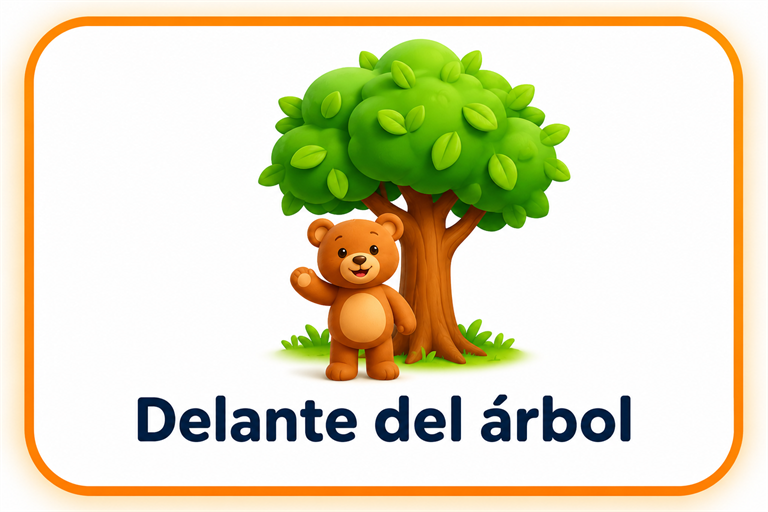
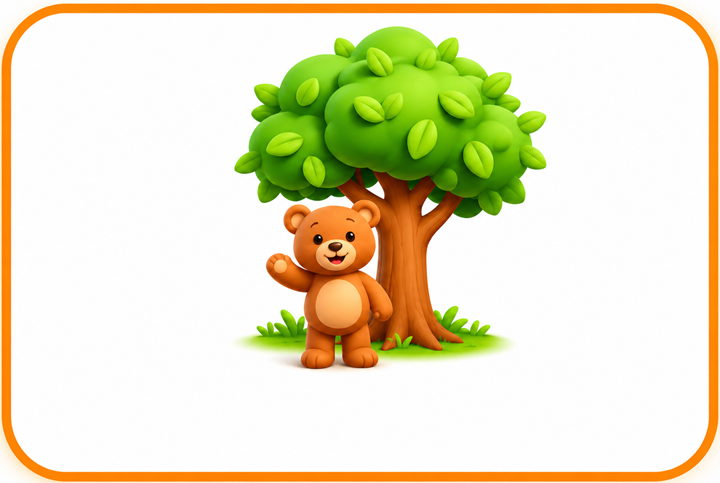
feat(spatial-safari): actualizar ilustraciones oficiales del osito delante y detras v329

diff --git a/spatial_safari.js b/spatial_safari.js
@@ -94,8 +94,8 @@
       praise: '¡Exacto! ¡El osito está delante saludándote muy feliz!',
       help: 'Observa con atención: ese osito se esconde detrás. ¡Busquemos al que está delante!',
       items: [
-        { id: 'delante', name: 'Delante del árbol', img: 'assets/espacial_delante.png?v=326', isCorrect: true },
-        { id: 'detras', name: 'Detrás del árbol', img: 'assets/espacial_detras.png?v=326', isCorrect: false }
+        { id: 'delante', name: 'Delante del árbol', img: 'assets/espacial_delante.png?v=329', isCorrect: true },
+        { id: 'detras', name: 'Detrás del árbol', img: 'assets/espacial_detras.png?v=329', isCorrect: false }
       ]
     },
     {
@@ -108,8 +108,8 @@
       praise: '¡Exacto! ¡Lo encontraste jugando a las escondidas detrás del tronco!',
       help: 'Observa bien: ese osito está delante. ¡Busquemos al que se esconde detrás!',
       items: [
-        { id: 'delante', name: 'Delante del árbol', img: 'assets/espacial_delante.png?v=326', isCorrect: false },
-        { id: 'detras', name: 'Detrás del árbol', img: 'assets/espacial_detras.png?v=326', isCorrect: true }
+        { id: 'delante', name: 'Delante del árbol', img: 'assets/espacial_delante.png?v=329', isCorrect: false },
+        { id: 'detras', name: 'Detrás del árbol', img: 'assets/espacial_detras.png?v=329', isCorrect: true }
       ]
     },
     {

diff --git a/index.html b/index.html
@@ -8,7 +8,7 @@
   <title>CRIN Aventuras de Lectoescritura</title>
   
   <script>
-    const CURRENT_APP_VERSION = 'v328';
+    const CURRENT_APP_VERSION = 'v329';
     // DECISIÓN PEDAGÓGICA TEMPORAL: Desactivar pronunciación de sílabas y letras en el juego
     // El narrador solo presenta el juego y celebra (¡Súper, logrado!, etc.), sin seguimiento de letras/sílabas
     window.CRIN_MUTE_IN_GAME_SYLLABLES_LETTERS = true;
@@ -150,7 +150,7 @@
   <!-- 🎨 MÓDULO PSICOPEDAGÓGICO 11: EL VALLE DE LAS FORMAS Y COLORES -->
   <script src="shapes_colors.js?v=321"></script>
   <!-- 🧭 MÓDULO PSICOPEDAGÓGICO 12: EL SAFARI DE LA ORIENTACIÓN ESPACIAL (Paso 3) -->
-  <script src="spatial_safari.js?v=328"></script>
+  <script src="spatial_safari.js?v=329"></script>
   <!-- MOTOR DE VOZ EN ESPAÑOL GARANTIZADO (ResponsiveVoice) -->
   <script src="https://code.responsivevoice.org/responsivevoice.js" defer></script>
 
